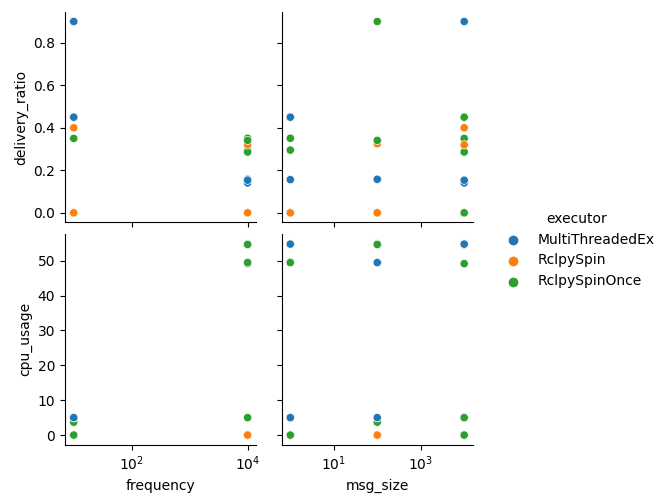
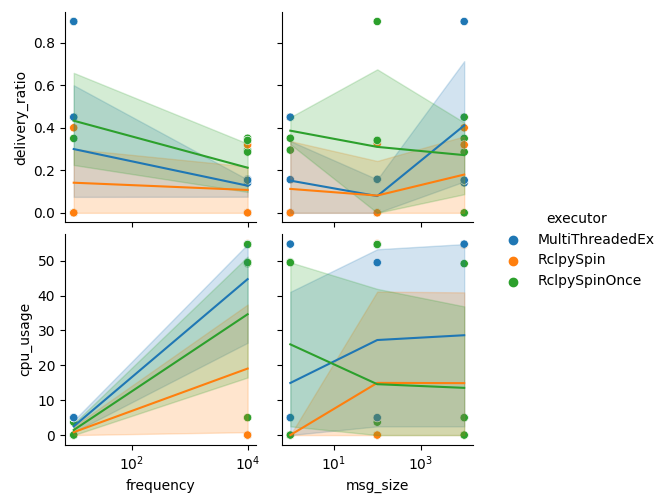
pairplots with lines

diff --git a/rclpy_listeners/instrumentation/measure.py b/rclpy_listeners/instrumentation/measure.py
@@ -157,6 +157,7 @@ def _pairplot(df, hue):
     )
     for ax in pp.axes.flat:
         ax.set_xscale('log')
+    pp.map_offdiag(sns.lineplot)
     plt.savefig(f'pairplot_{hue}.png')
     plt.close()
 
@@ -164,3 +165,7 @@ def _pairplot(df, hue):
 def main(args=None):
     experiment(args=args)
     plot()
+
+
+if __name__ == '__main__':
+    main()
